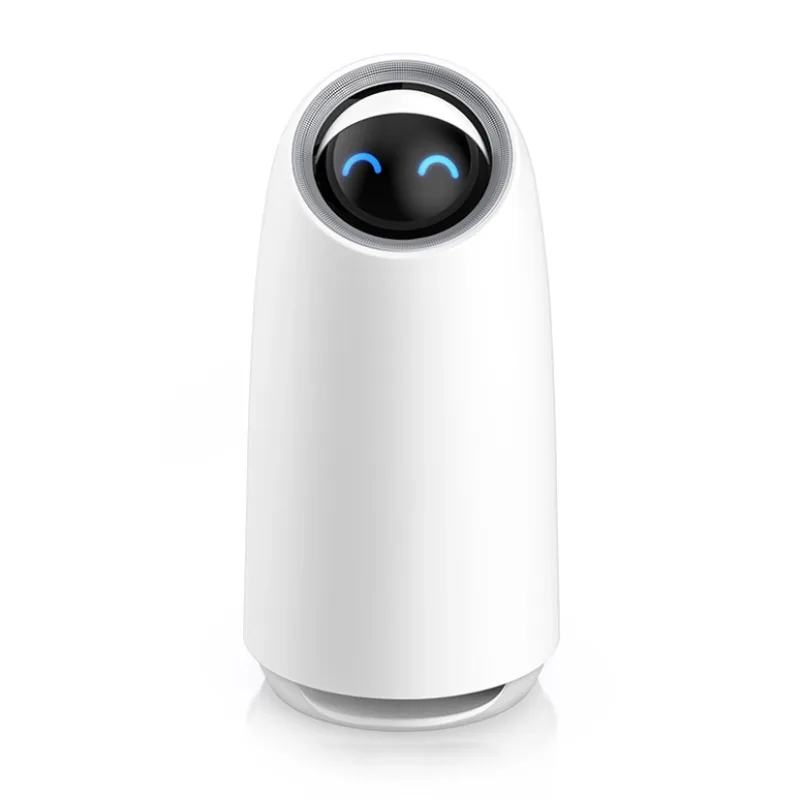
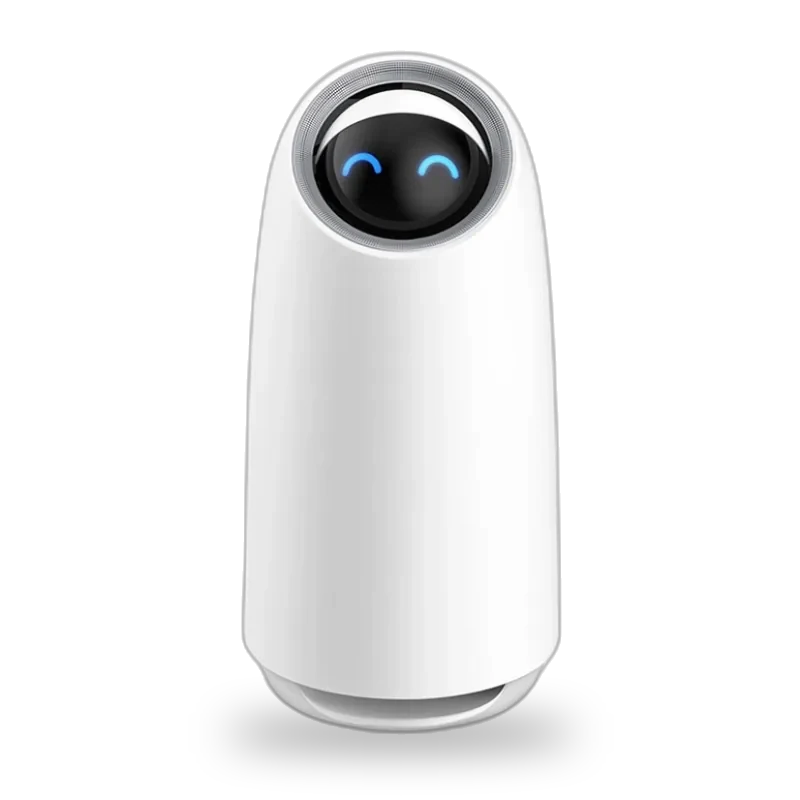
Climate products on graphite instead of white
All 28 climate photos are cut out of their white backgrounds (with a soft
floor shadow) and shown on the BC-05 box graphite gradient in the category
grid and on product pages, in both themes.

Claude-Session: https://claude.ai/code/session_016nNbgK9XUy49ZdD95FKshF

diff --git a/index.html b/index.html
@@ -243,8 +243,10 @@ html[lang="ar"] .btn,html[lang="zh"] .btn{letter-spacing:0; font-size:15px}
 .pv-hero .btn.solid{background:#fff; color:#141414}
 @media (max-width:640px){.pv-hero{padding:24px; min-height:440px}}
 .tile.white .pic{background:#fff}
+/* Climate products are cut out and sit on the BC-05 box graphite, not on white */
+.tile.graph .pic{background:radial-gradient(90% 80% at 50% 42%,#3A3531,#242220 60%,#1C1B19)}
 .air-hero{display:grid; grid-template-columns:minmax(0,1fr) minmax(0,1fr); gap:48px; align-items:center; background:var(--card); border:1px solid var(--rule); border-radius:var(--r); padding:32px}
-.air-hero .plate,.air-feat .plate{background:#fff; border-radius:12px; overflow:hidden; aspect-ratio:1; max-width:100%}
+.air-hero .plate,.air-feat .plate{background:radial-gradient(90% 80% at 50% 42%,#3A3531,#242220 60%,#1C1B19); border-radius:12px; overflow:hidden; aspect-ratio:1; max-width:100%}
 .air-hero .plate img,.air-feat .plate img{width:100%; height:100%; object-fit:contain; display:block}
 .air-hero .txt{display:flex; flex-direction:column; gap:10px; min-width:0}
 .air-hero h1{font-weight:300; font-size:clamp(34px,5vw,58px); line-height:1.05}
@@ -847,7 +849,7 @@ function route(scroll){
       body.innerHTML='<div class="products"></div>';
       var pg=body.firstChild;
       list.forEach(function(p){
-        var a=document.createElement('a'); a.className='tile'+(p.fit?' white':''); a.href='#'+p.slug;
+        var a=document.createElement('a'); a.className='tile'+(p.fit?' white':'')+(p.page==='air'?' graph':''); a.href='#'+p.slug;
         a.innerHTML='<div class="pic" style="overflow:hidden; aspect-ratio:4/3; flex:none">'+(p.img?'<img src="'+esc(p.img)+'" alt="" loading="lazy" style="width:100%;height:100%;object-fit:'+(p.fit||'cover')+';object-position:'+(p.fit?'50% 50%':'58% 62%')+'">':cicon(info.icon))+'</div><div class="row" style="display:flex;justify-content:space-between;align-items:center;gap:10px;padding-inline:4px"><h4 style="padding:0"></h4>'+ARROW+'</div><div class="tag"></div>';
         a.querySelector('h4').textContent='BUCCARI '+p.name; a.querySelector('.tag').textContent=p.sub?(t[p.sub]||''):prodTag(p,LANG); pg.appendChild(a);
       });
